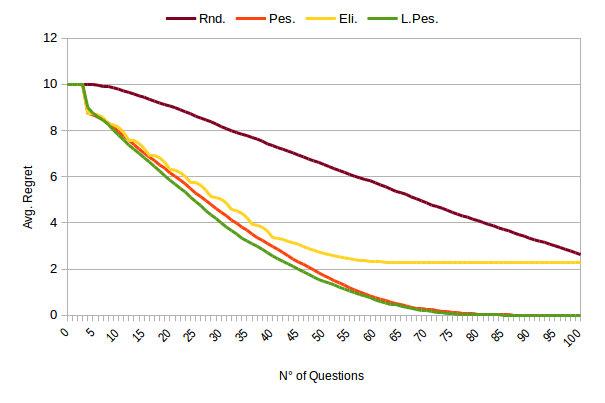
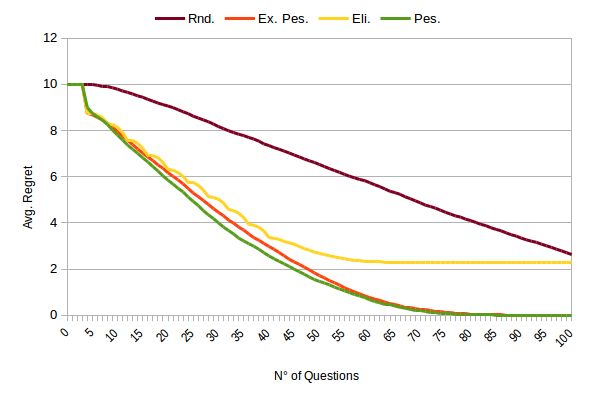
adjusted tables and figures

diff --git a/minimax.tex b/minimax.tex
@@ -498,19 +498,19 @@ We next investigate the better performing Limited pessimistic strategy, because 
 		\resizebox{\columnwidth}{!}{
 		\begin{tabular}{S[table-figures-integer=3, table-number-alignment = right, table-figures-decimal=0]S[table-number-alignment = right]@{ ± }S[table-number-alignment = left]S[table-number-alignment = right]@{ ± }S[table-number-alignment = left]S[table-number-alignment = right]@{ ± }S[table-number-alignment = left]S[table-number-alignment = right]@{ ± }S[table-number-alignment = left]S[table-number-alignment = right]@{ ± }S[table-number-alignment = left]}
 			\toprule
-			{k} & {Rnd.} & {sd} & {Pes.} & {sd} & {L.\ pes.} & {sd} & {Eli.} & {sd} \\
+			{k} & {Rnd.} & {sd} & {Pes.} & {sd} & {Ex.\ pes.} & {sd} & {Eli.} & {sd} \\
 			\midrule
 			0 & 10.0 & 0.0 & 10.0 & 0.0 & 10.0 & 0.0 & 10.0 & 0.0\\
-			20 & 9.06 & 0.49 & 6.17 & 0.78 & 5.85 & 0.87& 6.32 & 0.61\\
-			40 & 7.35 & 0.82 & 2.98 & 0.99 & 2.57 & 1.05 & 3.37 & 0.83\\
-			60 & 5.74 & 1.03 & 0.77 &0.78 & 0.67 & 0.67 & 2.33 & 1.05\\
-			80 & 4.10 & 1.15 & 0.05 & 0.18 & 0.03 & 0.12 & 2.28 & 1.05\\
+			20 & 9.06 & 0.49 & 5.85 & 0.87 & 6.17 & 0.78 & 6.32 & 0.61\\
+			40 & 7.35 & 0.82 & 2.57 & 1.05 & 2.98 & 0.99 & 3.37 & 0.83\\
+			60 & 5.74 & 1.03 & 0.67 & 0.67 & 0.77 &0.78 & 2.33 & 1.05\\
+			80 & 4.10 & 1.15 & 0.03 & 0.12 & 0.05 & 0.18 & 2.28 & 1.05\\
 			100 & 2.63 & 1.19 & 0.0 &  0.0 & 0.0 & 0.0& 2.28 & 1.05\\
 			\bottomrule
 		\end{tabular}
 		}
 	\end{center}
-	\caption{Average MMR in problems of size $(5, 10)$ after $k$ questions and $200$ runs.}
+	\caption{Average $\MMR$ in problems of size $(5, 10)$ after $k$ questions and $200$ runs.\commentBN{Attention, I already corrected the table with the new names. The column Pes. here is the Limited Pessimistic, I inverted them to follow the presentation order.}}
 	\label{tab:comparison}
 \end{table}
 
@@ -524,7 +524,7 @@ We next investigate the better performing Limited pessimistic strategy, because 
 \begin{figure}
 	\centering
 	\includegraphics[width=.45\textwidth]{linearity.png}
-	\caption{Average MMR after $k$ questions with Limited Pessimistic strategy after 10 runs for different problem sizes.}
+	\caption{Average $\MMR$ after $k$ questions with Pessimistic strategy after 10 runs for different problem sizes.}
 	\label{fig:linearity}
 \end{figure}
 
@@ -532,7 +532,7 @@ We next investigate the better performing Limited pessimistic strategy, because 
 	\begin{center}
 		\begin{tabular}{S[table-figures-integer=1, table-number-alignment = center, table-figures-decimal=0]S[table-figures-integer=1, table-number-alignment = center, table-figures-decimal=0]S[table-number-alignment = center]S[table-figures-integer=1, table-number-alignment = center, table-figures-decimal=0]S[table-figures-integer=1, table-number-alignment = center, table-figures-decimal=0]}
 			\toprule
-			{m} & {n} & {$\frac{n}{10}$} & {$k_{MMR}$} & {$m\cdot n +m^?$} \\
+			{m} & {n} & {$\frac{n}{10}$} & {$k_{\MMR}$} & {$m\cdot n +m^?$} \\
 			\midrule
 			5 & 10 & 1.0 & 60 &  \\
 			5 & 15 & 1.5 & 80 &  \\
@@ -543,7 +543,7 @@ We next investigate the better performing Limited pessimistic strategy, because 
 			\bottomrule
 		\end{tabular}
 	\end{center}
-	\caption{}
+	\caption{Number of questions needed by Pessimistic strategy to reach $\MMR=\frac{n}{10}$ (represented by $k_{\MMR}$), for different problem sizes.}
 	\label{tab:linearity}
 \end{table}
 
@@ -557,29 +557,51 @@ We observe that the Pessimistic strategy is able to reduce the regret almost com
 %However, it takes $1000$ times more time than the \strat{Random} strategy ($16s$ of the Pessimistic compared to $0.014s$ of the Random). Moreover, the results of the \strat{Limited pessimistic}, that takes almost $80\%$ less of the time of the \strat{Pessimistic} ($2.6s$), are essentially the same.
 %In Table \ref{fig:1020}, we can see the drop of regret using a bigger instance.
 %Finally in Table \ref{fig:p}
+%
+%\begin{table}
+%	\begin{center}
+%		\begin{tabular}{S[table-figures-integer=3, table-number-alignment = right, table-figures-decimal=0]S[table-number-alignment = right]@{ ± }S[table-number-alignment = left]S[table-number-alignment = right]@{ ± }S[table-number-alignment = left]S[table-number-alignment = right]@{ ± }S[table-number-alignment = left]S[table-number-alignment = right]@{ ± }S[table-number-alignment = left]}
+%			\toprule
+%			{p} & {Comm. Fst.} & {sd} & {Vot. Fst.} & {sd} \\
+%			\midrule
+%			0 & 0.48 &0.59 & 0.48 &0.59  \\
+%			50 & 0.01 & 0.04& 0.0 & 0.0 \\
+%			100 & 0.04 & 0.09 & 0.13 & 0.35 \\
+%			150 & 0.68 & 0.65 & 0.66 & 0.77 \\
+%			200 &   &  &  &  \\
+%			250 & 3.2 & 1.67 & 4.07	& 1.51 \\
+%			300 &&&& \\
+%			350 &&&& \\
+%			400 &&&& \\
+%			450 &&&& \\
+%			500 &&&& \\
+%			\bottomrule
+%		\end{tabular}
+%	\end{center}
+%	\caption{Average regret in problems of size $(10, 20)$ after $500$ questions and $10$ runs. Where $p$ represents the number of questions asked to the chair.}
+%	\label{tab:twoP500}
+%\end{table}
 
 \begin{table}
 	\begin{center}
 		\begin{tabular}{S[table-figures-integer=3, table-number-alignment = right, table-figures-decimal=0]S[table-number-alignment = right]@{ ± }S[table-number-alignment = left]S[table-number-alignment = right]@{ ± }S[table-number-alignment = left]S[table-number-alignment = right]@{ ± }S[table-number-alignment = left]S[table-number-alignment = right]@{ ± }S[table-number-alignment = left]}
 			\toprule
-			{p} & {Comm. Fst.} & {sd} & {Vot. Fst.} & {sd} \\
+			{p} & {Com. Fst.} & {sd} & {Vot. Fst.} & {sd} \\
 			\midrule
-			0 &  &  &  &  \\
-			50 &  &  &  &  \\
-			100 &  &  &  &  \\
-			150 &  &  & &  \\
+			0 & 0.66 & 0.67 & 0.65 & 0.65  \\
+			50 & 1.23 & 1.46 & 0.8 & 0.79 \\
+			100 & 2.03 & 1.56 &  &  \\
+			150 & 3.41 & 1.79 & 4.07 & 1.51 \\
 			200 &   &  &  &  \\
-			250 &  & &  &  \\
+			250 & 8.4 & 1.86 & 	& \\
 			300 &&&& \\
 			350 &&&& \\
 			400 &&&& \\
-			450 &&&& \\
-			500 &&&& \\
 			\bottomrule
 		\end{tabular}
 	\end{center}
-	\caption{Average regret in problems of size $(10, 20)$ after $500$ questions and $10$ runs. Where $p$ represents the number of questions asked to the chair.}
-	\label{tab:twoP}
+	\caption{Average $\MMR$ in problems of size $(10, 20)$ after $400$ questions and $10$ runs. Where $p$ represents the number of questions asked to the chair. (The $\MMR$ after 400 questions with Pessimistic is $0.62$ ± $0.56$)}
+	\label{tab:twoP400}
 \end{table}
 
 \section{Conclusions}  
